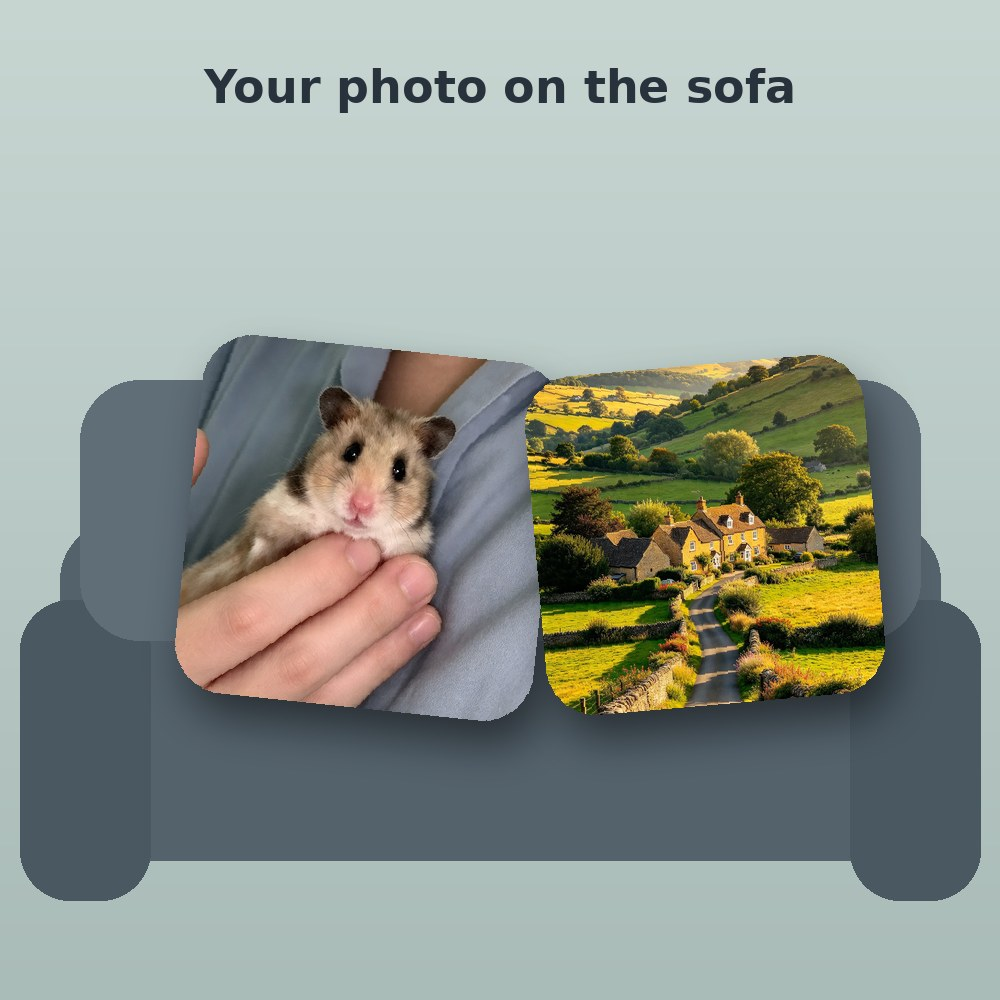
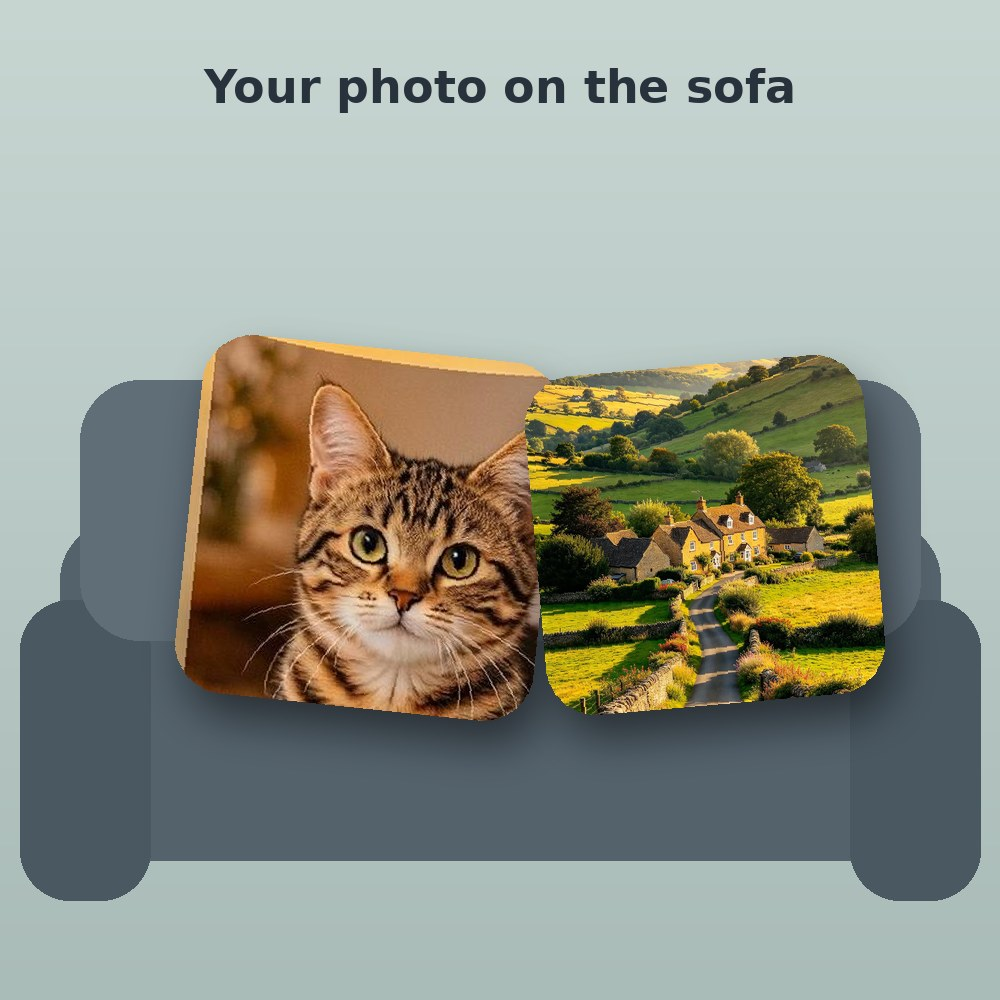
Sharper mouse mat (hamster), cleaner posters tile, cat cushion
Claude-Session: https://claude.ai/code/session_01MtCPF3kmhX7aPXARQ9Ngt1

Changed region(s): [[0.155, 0.31, 0.558, 0.744]]

diff --git a/index.html b/index.html
@@ -82,10 +82,10 @@
     <div class="tiles">
         <a class="tile" href="/scenic-prints"><img src="/prints-hero-scenic.jpg" alt="" loading="lazy"><div class="t-body"><h3>Scenic fine art prints: your photo or a landscape</h3><div class="t-price">From £15.49</div></div></a>
         <a class="tile" href="/blanket"><img src="/products/IMG_8759.jpeg" alt="" loading="lazy"><div class="t-body"><h3>Luxury photo throws</h3><div class="t-price">From £47.99</div></div></a>
-        <a class="tile" href="/poster-sale"><img src="/posters-hero.jpg?v=2" alt="" loading="lazy"><div class="t-body"><h3>Giant posters &amp; wall stickers</h3><div class="t-price">From £15.49</div></div></a>
+        <a class="tile" href="/poster-sale"><img src="/posters-hero.jpg?v=3" alt="" loading="lazy"><div class="t-body"><h3>Giant posters &amp; wall stickers</h3><div class="t-price">From £15.49</div></div></a>
         <a class="tile" href="/photo-tiles"><img src="/products/framed-photo-tiles.jpg" alt="" loading="lazy"><div class="t-body"><h3>Peel &amp; Go photo frames</h3><div class="t-price">From £22.99</div></div></a>
         <a class="tile" href="/prints"><img src="/prints-postcards.jpg?v=2" alt="" loading="lazy"><div class="t-body"><h3>Photo prints &amp; postcards</h3><div class="t-price">From £3.99</div></div></a>
-        <a class="tile" href="/cushions"><img src="/cushion-mockup.jpg?v=2" alt="" loading="lazy"><div class="t-body"><h3>Cushions</h3><div class="t-price">From £23.49</div></div></a>
+        <a class="tile" href="/cushions"><img src="/cushion-mockup.jpg?v=3" alt="" loading="lazy"><div class="t-body"><h3>Cushions</h3><div class="t-price">From £23.49</div></div></a>
         <a class="tile" href="/cushions"><img src="/towel-mockup.jpg?v=2" alt="" loading="lazy"><div class="t-body"><h3>Towels</h3><div class="t-price">£24.99</div></div></a>
         <a class="tile" href="/tote"><img src="/tote-hero.jpg?v=2" alt="" loading="lazy"><div class="t-body"><h3>Photo tote bags</h3><div class="t-price">£27.99</div></div></a>
     </div>
@@ -96,7 +96,7 @@
     <div class="tiles">
         <a class="tile" href="/mug"><img src="/magic-mug-still.jpg?v=2" alt="" loading="lazy"><div class="t-body"><h3>✨ Magic Reveal mugs &amp; photo mugs</h3><div class="t-price">From £13.99</div></div></a>
         <a class="tile" href="/baby-reveal"><img src="/baby-reveal-hero.jpg?v=2" alt="" loading="lazy"><div class="t-body"><h3>Baby reveal mug: it's a boy or girl</h3><div class="t-price">£19.99</div></div></a>
-        <a class="tile" href="/mousemat"><img src="/mousemat-hero.jpg?v=2" alt="" loading="lazy"><div class="t-body"><h3>Photo mouse mats</h3><div class="t-price">£14.99</div></div></a>
+        <a class="tile" href="/mousemat"><img src="/mousemat-hero.jpg?v=3" alt="" loading="lazy"><div class="t-body"><h3>Photo mouse mats</h3><div class="t-price">£14.99</div></div></a>
         <a class="tile" href="/household.html"><img src="/coasters-mockup.jpg?v=2" alt="" loading="lazy"><div class="t-body"><h3>Coasters, tea towels &amp; aprons</h3><div class="t-price">From £10.99</div></div></a>
         <a class="tile" href="/water-bottle"><img src="/bottle-hero.jpg?v=2" alt="" loading="lazy"><div class="t-body"><h3>Photo water bottles</h3><div class="t-price">From £22.99</div></div></a>
         <a class="tile" href="/magnets"><img src="/products/IMG_8533.jpeg" alt="" loading="lazy"><div class="t-body"><h3>Fridge magnets</h3><div class="t-price">From £7.49</div></div></a>

diff --git a/tiktok.html b/tiktok.html
@@ -46,14 +46,14 @@
     <div class="tiles">
       <a class="tile" href="/mug"><img src="/magic-mug-still.jpg?v=2" alt="" loading="lazy"><div class="t-body"><h3>✨ Magic Reveal mugs &amp; photo mugs</h3><div class="t-price">From £13.99</div></div></a>
       <a class="tile" href="/magnets"><img src="/products/IMG_8533.jpeg" alt="" loading="lazy"><div class="t-body"><h3>Fridge magnets</h3><div class="t-price">From £7.49</div></div></a>
-      <a class="tile" href="/cushions"><img src="/cushion-mockup.jpg?v=2" alt="" loading="lazy"><div class="t-body"><h3>Cushions</h3><div class="t-price">From £23.49</div></div></a>
+      <a class="tile" href="/cushions"><img src="/cushion-mockup.jpg?v=3" alt="" loading="lazy"><div class="t-body"><h3>Cushions</h3><div class="t-price">From £23.49</div></div></a>
       <a class="tile" href="/cushions"><img src="/towel-mockup.jpg?v=2" alt="" loading="lazy"><div class="t-body"><h3>Towels</h3><div class="t-price">From £31.99</div></div></a>
       <a class="tile" href="/household.html"><img src="/coasters-mockup.jpg?v=2" alt="" loading="lazy"><div class="t-body"><h3>Coasters, tea towels &amp; aprons</h3><div class="t-price">From £10.99</div></div></a>
     </div>
     <h3 class="gift-group">🖼 For the walls</h3>
     <div class="tiles">
       <a class="tile" href="/prints"><img src="/prints-postcards.jpg?v=2" alt="" loading="lazy"><div class="t-body"><h3>Photo prints &amp; postcards</h3><div class="t-price">From £3.99</div></div></a>
-      <a class="tile" href="/poster-sale"><img src="/posters-hero.jpg?v=2" alt="" loading="lazy"><div class="t-body"><h3>Giant posters &amp; wall stickers</h3><div class="t-price">From £15.49</div></div></a>
+      <a class="tile" href="/poster-sale"><img src="/posters-hero.jpg?v=3" alt="" loading="lazy"><div class="t-body"><h3>Giant posters &amp; wall stickers</h3><div class="t-price">From £15.49</div></div></a>
       <a class="tile" href="/frames-gifts.html"><img src="/products/framed-photo-tiles.jpg" alt="" loading="lazy"><div class="t-body"><h3>Framed photo tiles</h3><div class="t-price">From £9.99</div></div></a>
     </div>
     <h3 class="gift-group">🧒 For kids &amp; fun</h3>

diff --git a/poster-sale.html b/poster-sale.html
@@ -8,7 +8,7 @@
 <link rel="canonical" href="https://onjjem.com/poster-sale">
 <meta property="og:title" content="Giant Photo Posters &amp; Wall Stickers | ONJJEM">
 <meta property="og:description" content="Giant photo and cartoon posters and peel-and-stick wall stickers for kids rooms, from £15.49 with free UK delivery.">
-<meta property="og:image" content="https://onjjem.com/posters-hero.jpg?v=2">
+<meta property="og:image" content="https://onjjem.com/posters-hero.jpg?v=3">
 <script async src="https://www.googletagmanager.com/gtag/js?id=G-3L30Q5L3MW"></script>
 <script>
   window.dataLayer = window.dataLayer || [];
@@ -32,7 +32,7 @@ window.PAGE = {
   kicker: "Poster sale · big prints, small prices",
   title: "Giant posters & wall stickers of your photo",
   sub: "Turn their favourite photo, pet or cartoon into a huge poster or a peel-and-stick wall sticker. Perfect for kids' bedrooms, dens and teenage walls, from £15.49 with free delivery.",
-  heroImg: "/posters-hero.jpg?v=2",
+  heroImg: "/posters-hero.jpg?v=3",
   heroAlt: "A child's bedroom wall with a giant cartoon poster",
   ticks: [
     "Up to 70×100cm: seriously big",

diff --git a/mousemat.html b/mousemat.html
@@ -8,7 +8,7 @@
 <link rel="canonical" href="https://onjjem.com/mousemat">
 <meta property="og:title" content="Personalised Photo Mouse Mat | ONJJEM">
 <meta property="og:description" content="Your photo or a free cartoon of your family or pet on an 8x10 inch mouse mat. £14.99 with free UK delivery.">
-<meta property="og:image" content="https://onjjem.com/mousemat-hero.jpg?v=2">
+<meta property="og:image" content="https://onjjem.com/mousemat-hero.jpg?v=3">
 <script async src="https://www.googletagmanager.com/gtag/js?id=G-3L30Q5L3MW"></script>
 <script>
   window.dataLayer = window.dataLayer || [];
@@ -32,7 +32,7 @@ window.PAGE = {
   kicker: "New",
   title: "Your photo on a mouse mat",
   sub: "Kids, pets or the whole family, looking up at you all day at the desk. A great gift for dads, grandads and anyone who works from home.",
-  heroImg: "/mousemat-hero.jpg?v=2",
+  heroImg: "/mousemat-hero.jpg?v=3",
   heroAlt: "A personalised photo mouse mat with a cartoon picture on it",
   ticks: [
     "8×10″ (20×24cm) with an anti-slip rubber base",

diff --git a/cushions.html b/cushions.html
@@ -8,7 +8,7 @@
 <link rel="canonical" href="https://onjjem.com/cushions">
 <meta property="og:title" content="Photo Cushions &amp; Towels | ONJJEM">
 <meta property="og:description" content="Your photo, cartoon or words on a soft cushion or a big towel. Made in the UK with free delivery.">
-<meta property="og:image" content="https://onjjem.com/cushion-mockup.jpg?v=2">
+<meta property="og:image" content="https://onjjem.com/cushion-mockup.jpg?v=3">
 <script async src="https://www.googletagmanager.com/gtag/js?id=G-3L30Q5L3MW"></script>
 <script>
   window.dataLayer = window.dataLayer || [];
@@ -32,7 +32,7 @@ window.PAGE = {
   kicker: "Cosy home gifts",
   title: "Your photo on a cushion or a big fluffy towel",
   sub: "Put the dog on the sofa (officially), or wrap up in your favourite holiday photo. Soft faux-linen cushions and plush towels, printed edge to edge.",
-  heroImg: "/cushion-mockup.jpg?v=2",
+  heroImg: "/cushion-mockup.jpg?v=3",
   heroAlt: "Cosy personalised gifts",
   ticks: [
     "Printed edge to edge in vivid colour",

diff --git a/us/mousemat.html b/us/mousemat.html
@@ -9,7 +9,7 @@
 <link rel="alternate" hreflang="en-US" href="https://onjjem.com/us/mousemat">
 <meta property="og:title" content="Personalized Photo Mouse Mat | ONJJEM">
 <meta property="og:description" content="Your photo or a FREE cartoon on an 8x10 inch mouse mat. $22.99 with free US shipping.">
-<meta property="og:image" content="https://onjjem.com/mousemat-hero.jpg?v=2">
+<meta property="og:image" content="https://onjjem.com/mousemat-hero.jpg?v=3">
 <script async src="https://www.googletagmanager.com/gtag/js?id=G-3L30Q5L3MW"></script>
 <script>
   window.dataLayer = window.dataLayer || [];
@@ -35,7 +35,7 @@ window.PAGE = {
   kicker: "Photo mouse mats",
   title: "Your photo on a mouse mat",
   sub: "The kids, the dog or the whole family looking up at you all day at the desk. A great gift for Dad, Grandpa and anyone who works from home.",
-  heroImg: "/mousemat-hero.jpg?v=2",
+  heroImg: "/mousemat-hero.jpg?v=3",
   heroAlt: "A mouse mat printed with a cartoon photo",
   ticks: [
     "8×10″ with an anti-slip base",

diff --git a/us/index.html b/us/index.html
@@ -114,7 +114,7 @@
     <div class="tiles">
         <a class="tile" href="/us/mug"><img src="/us/mug-hero.jpg?v=3" alt="" loading="lazy"><div class="t-body"><h3>Photo mugs</h3><div class="t-price">From $24.99</div></div></a>
         <a class="tile" href="/us/tumbler"><img src="/us/tumbler-hero.jpg?v=3" alt="" loading="lazy"><div class="t-body"><h3>Tumblers &amp; water bottles</h3><div class="t-price">From $32.99</div></div></a>
-        <a class="tile" href="/us/mousemat"><img src="/mousemat-hero.jpg?v=2" alt="" loading="lazy"><div class="t-body"><h3>Photo mouse mats</h3><div class="t-price">$22.99</div></div></a>
+        <a class="tile" href="/us/mousemat"><img src="/mousemat-hero.jpg?v=3" alt="" loading="lazy"><div class="t-body"><h3>Photo mouse mats</h3><div class="t-price">$22.99</div></div></a>
     </div>
   </section>
 
